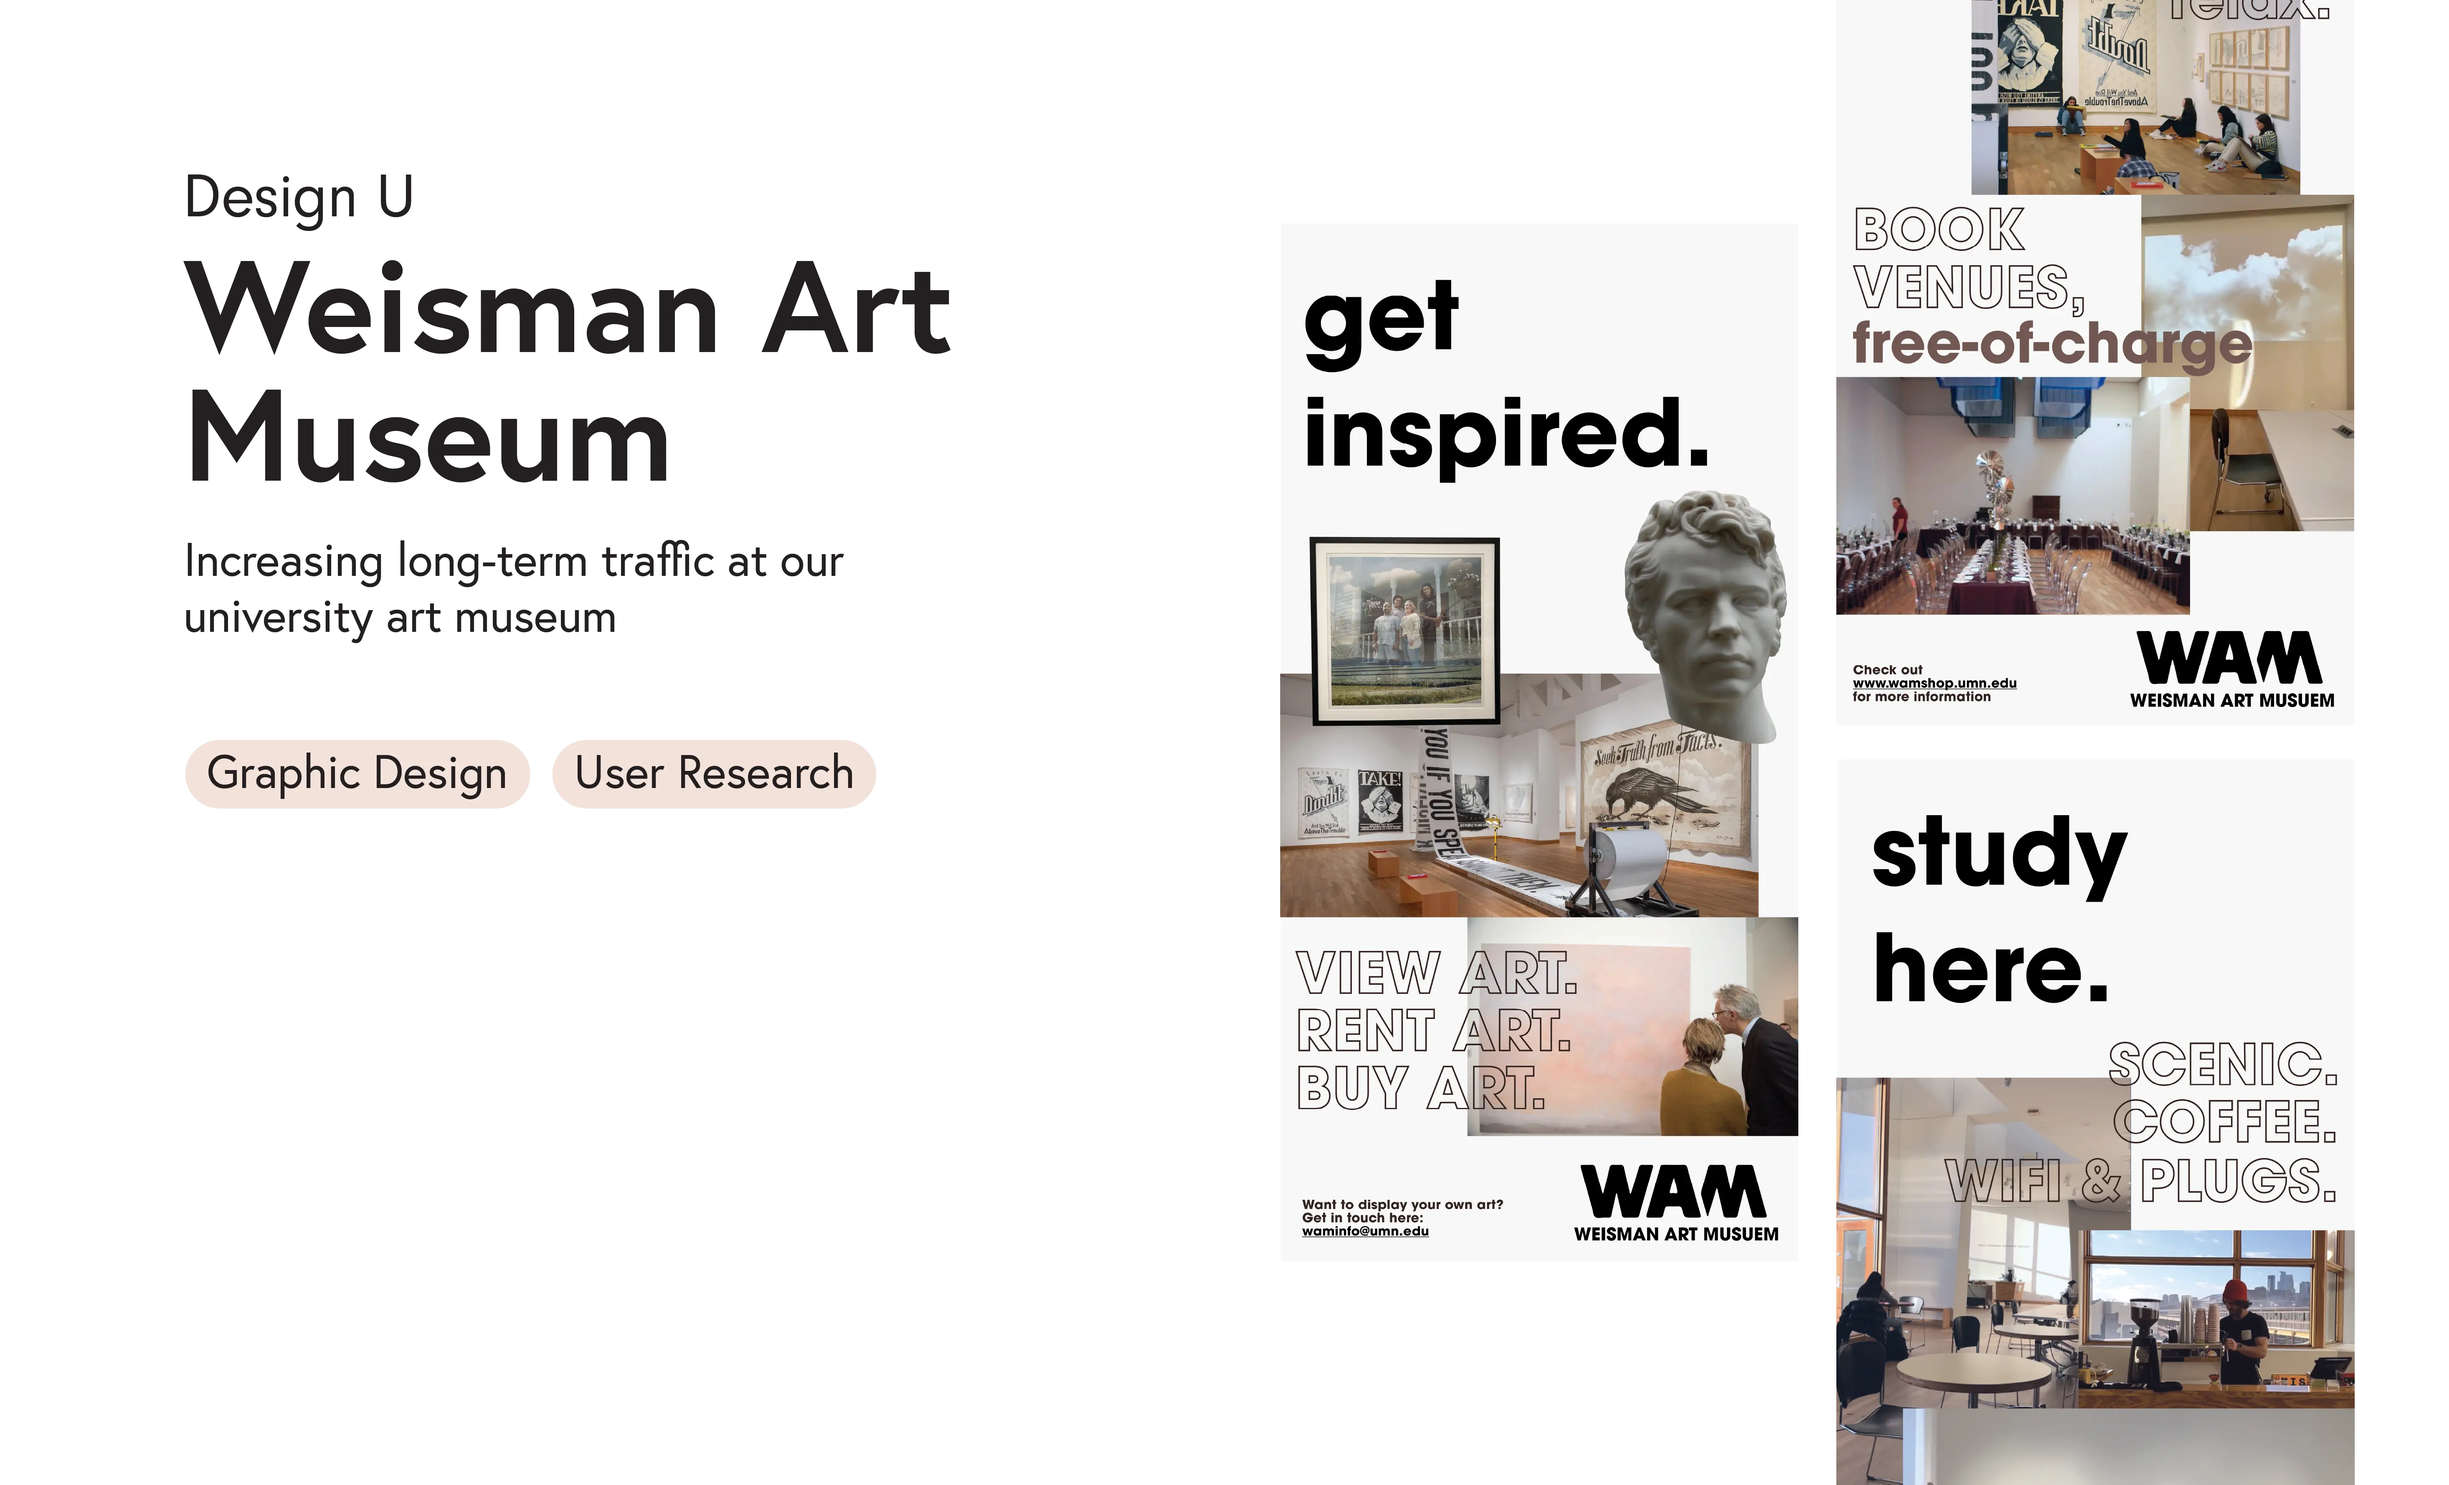
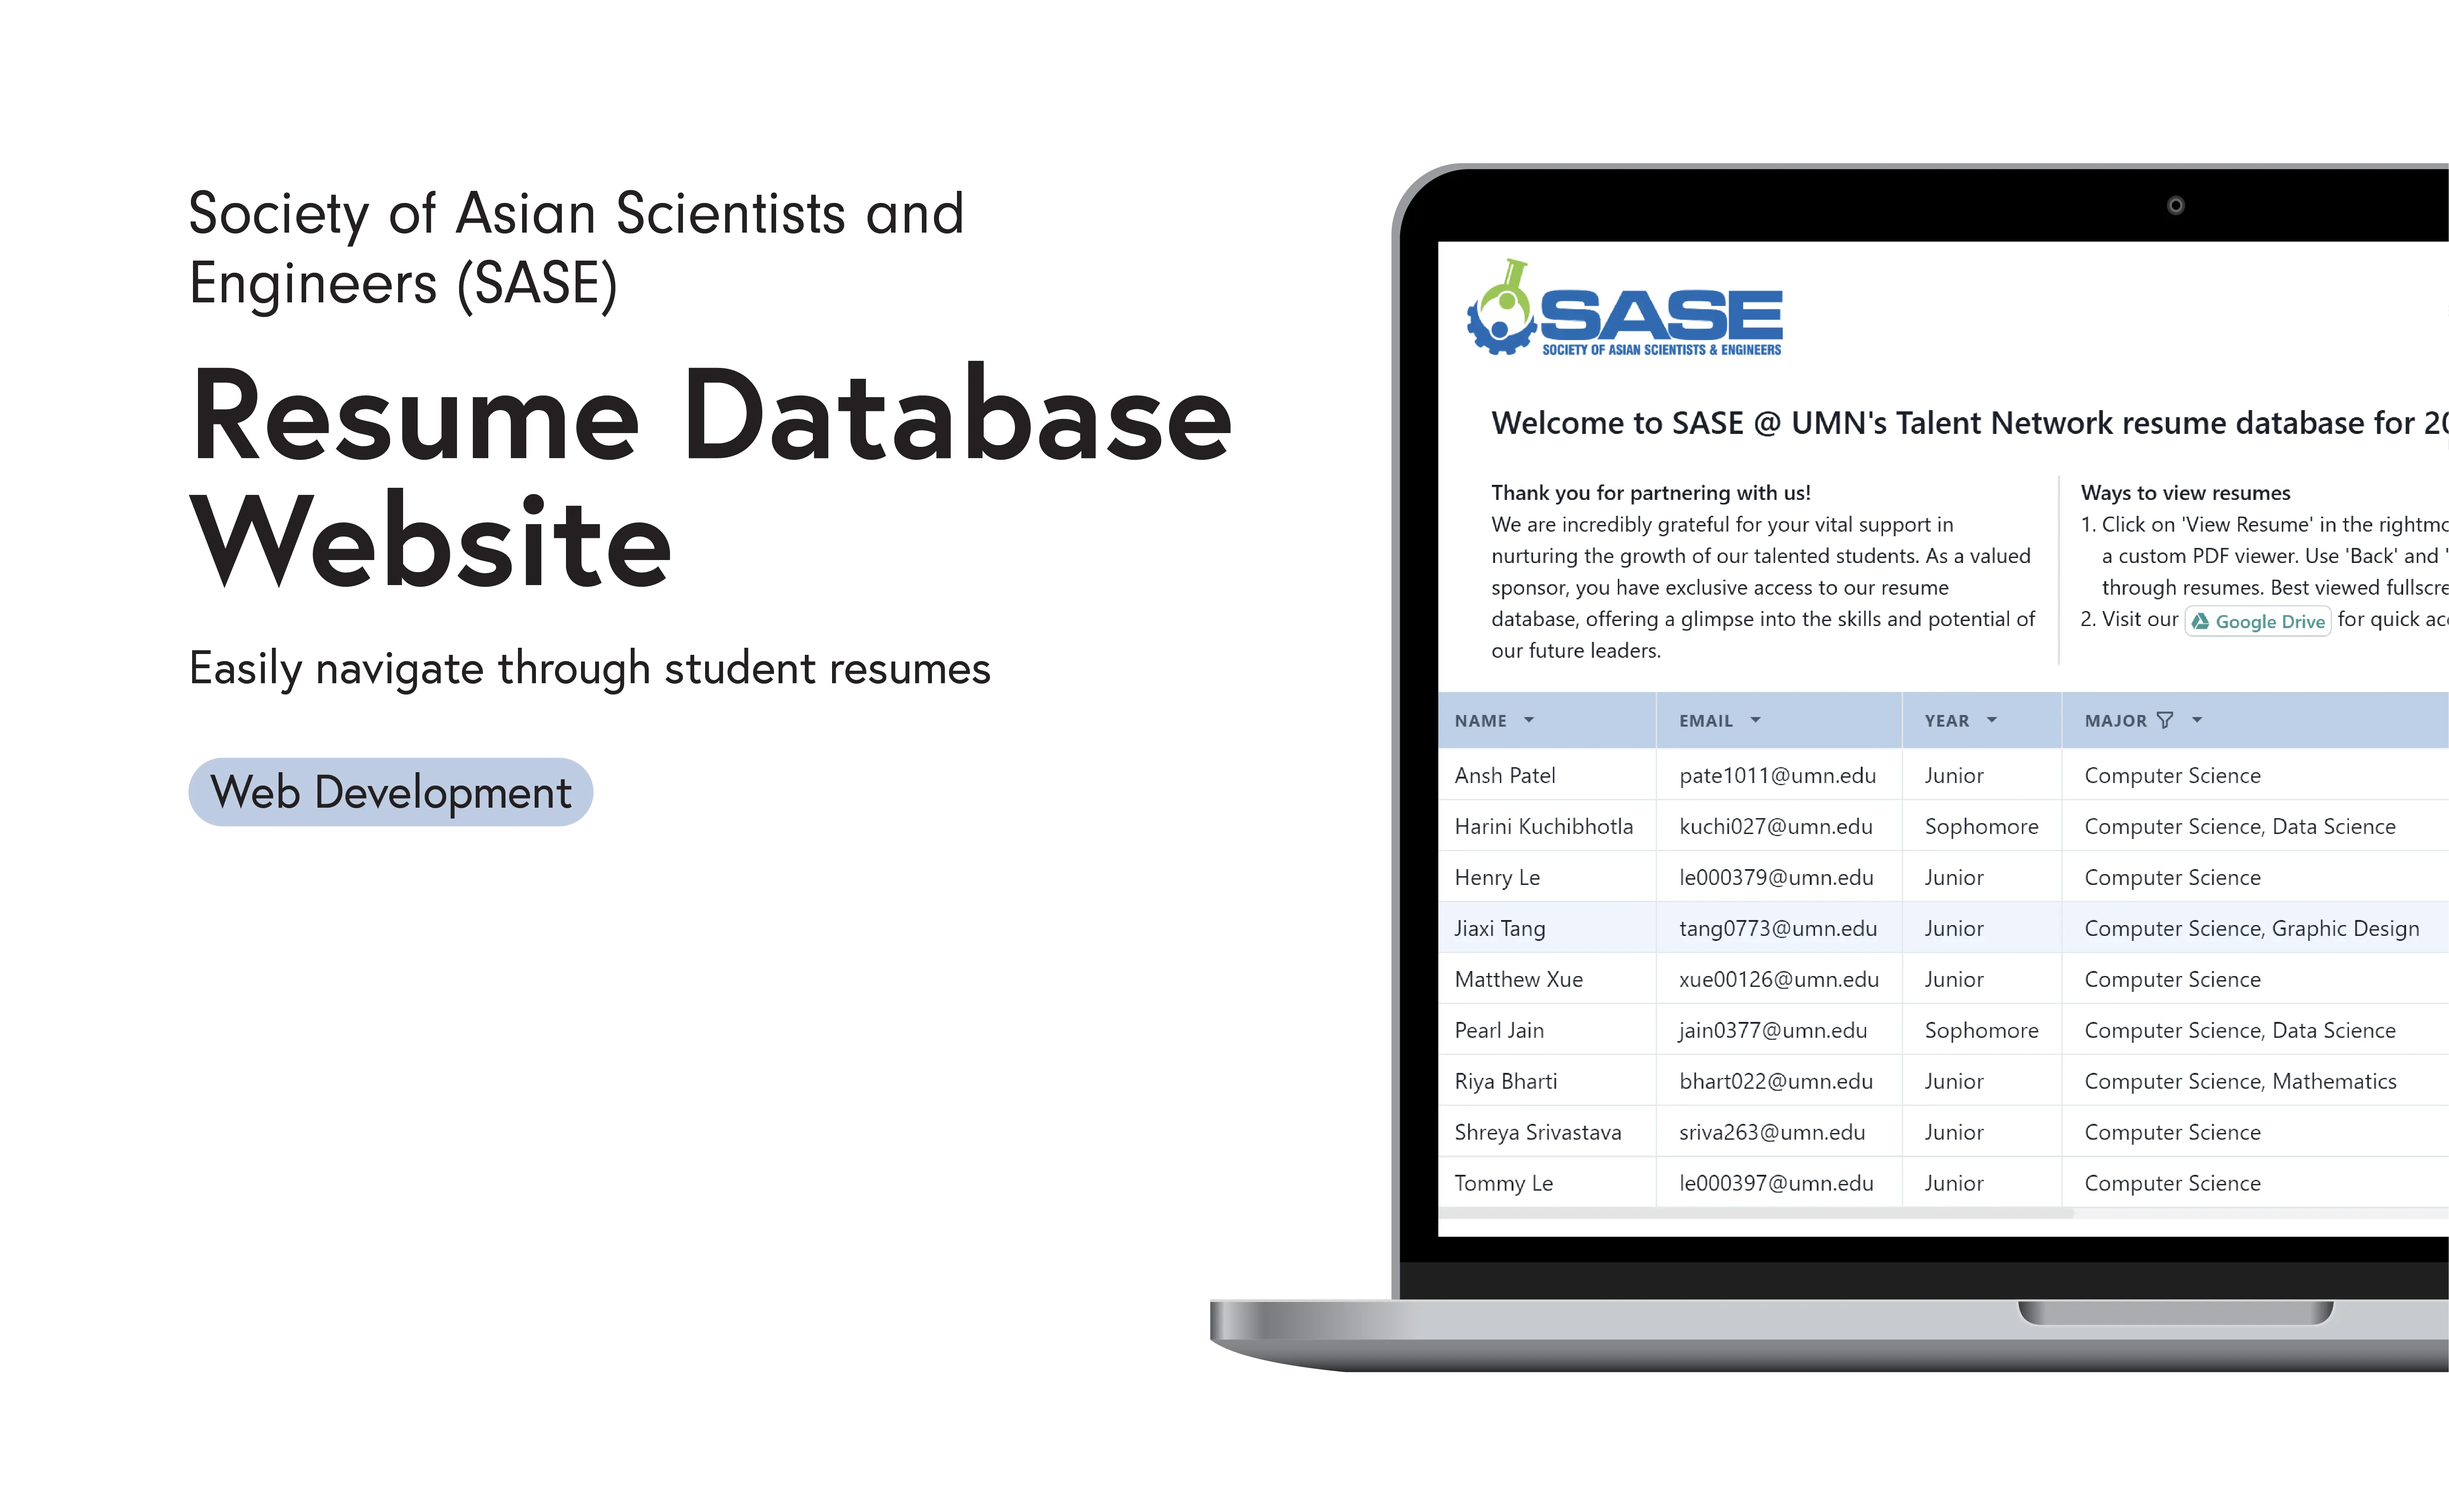
fix images and meta tag

diff --git a/app/layout.tsx b/app/layout.tsx
@@ -33,10 +33,14 @@ const RootLayout: React.FC<LayoutProps> = ({ children }) => {
 
   return (
     <html lang="en">
-      <meta content="Hi, I am Jiaxi Tang! UX Designer. UI Engineer. Currently pursuing a double degree in Computer Science and Graphic Design with a minor in UX Design. Welcome to my portfolio website!"></meta>
-      <meta name="viewport" content="width=device-width, initial-scale=1"></meta>
-      <meta property="og:site_name" content="Jiaxi Tang Portfolio"></meta>
-      <meta property="og:url" content="https://www.jiaxitang.com"></meta>
+      <head>
+        <meta content="Hi, I am Jiaxi Tang! UX Designer. UI Engineer. Currently pursuing a double degree in Computer Science and Graphic Design with a minor in UX Design. Welcome to my portfolio website!"></meta>
+        <title>Jiaxi Tang Portfolio</title>
+        <meta name="description" content='Hi, I am Jiaxi Tang! UX Designer. UI Engineer. Currently pursuing a double degree in Computer Science and Graphic Design with a minor in UX Design. Welcome to my portfolio website!'/>
+        <meta name="viewport" content="width=device-width, initial-scale=1"></meta>
+        <meta property="og:site_name" content="Jiaxi Tang Portfolio"></meta>
+        <meta property="og:url" content="https://www.jiaxitang.com"></meta>
+      </head>
       <body className={`${zenKaku.className} antialiased`}>
         <ClientLayout>{children}</ClientLayout>
         <GoogleAnalytics gaId="G-45D1ZXXTF2"/>

diff --git a/components/ProjectsArray.js b/components/ProjectsArray.js
@@ -1,9 +1,9 @@
-import GovtechCover from '@/images/govtech/govtechCover.png';
-import WtlCover from '@/images/wtl/wtlCover.png';
+import GovtechCover from '@/images/govtech/govtechCover.webp';
+import WtlCover from '@/images/wtl/wtlCover.webp';
 import radioKCover from '@/images/radioK/radioKCover.webp';
 import portfolioCover from '@/images/portfolio/portfolioCover.webp';
-import SaseCover from '@/images/sase/saseCover.png';
-import WamCover from '@/images/wam/wamCover.png';
+import SaseCover from '@/images/sase/saseCover.webp';
+import WamCover from '@/images/wam/wamCover.webp';
 
 export const ProjectsArray = [
   {
